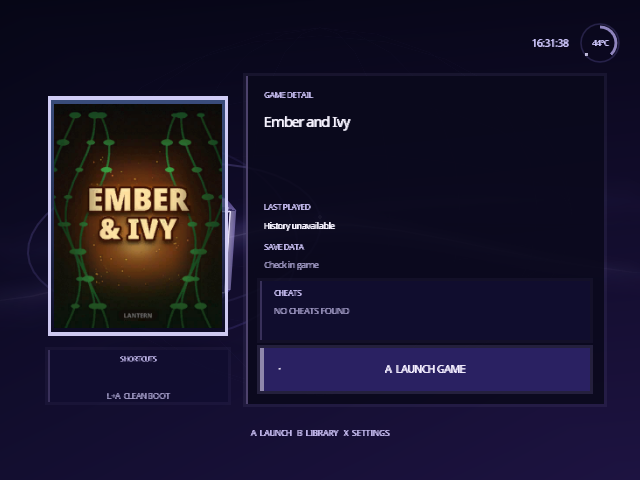
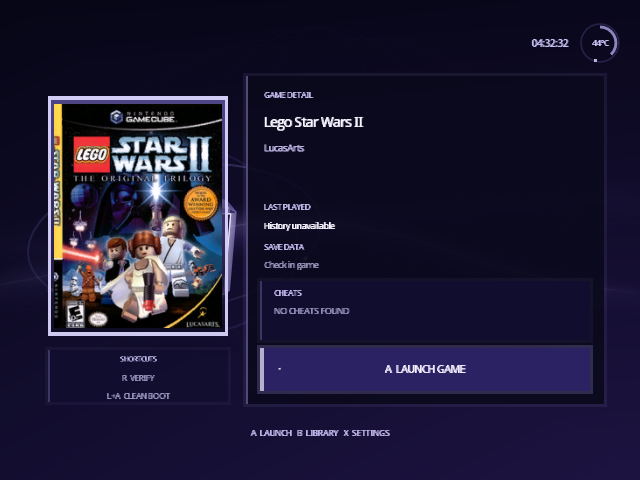
Release v1.3.3
Public-Release-Metadata: {"allow":["192.168.1.32","3.9.46.178","4.294.967.296","emukidid@gmail.com","extrems@extremscorner.org","hsn@sendmail.cz","jens.hauke@4k2.de","lasse.collin@tukaani.org","segher@kernel.crashing.org","tehpola@gmail.com"],"baseline":"","github":"spencercnorton/swiss-ui","include":[".github/CODEOWNERS",".github/FUNDING.yml",".github/ISSUE_TEMPLATE/",".github/PULL_REQUEST_TEMPLATE.md",".gitignore","CHANGELOG.md","CODE_OF_CONDUCT.md","CONTRIBUTING.md","LICENSE","Makefile","NOTICE","README.md","SECURITY.md","SUPPORT.md","buildtools/SWISS_FILE_DESCRIPTIONS.txt","buildtools/check_whitespace.sh","buildtools/dol2gci.cpp","buildtools/dol2ipl.py","cube/PowerPC.h","cube/asm.h","cube/linker-script/","cube/packer/","cube/patches/","cube/reservedarea.h","cube/reservedarea.ld","cube/swiss/Makefile","cube/swiss/include/","cube/swiss/source/","docs/screenshots/","pc/","wii/"],"pinned":{"cube/linker-script/ogc.ld":"sha256:c2e8d217d8f8edd03e1605b7749344afe3849a1fc5f4cb3d24484dd1dceb4a0f","cube/packer/source/link.ld":"sha256:9370d339794e94cddbabcb905c13ea8db535efcce31d17600350b9489434000c","cube/patches/base/base.ld":"sha256:f50568b7efb501ea58569b42de230c6113f568ca06442950471bbdee1736d1c2","cube/patches/base/common.ld":"sha256:35f27cc406dce84ff3c95bbc97a6cbc4a370eda22a27efb4f84aadc80a2f8d2d","cube/patches/base/dolphin/os.ld":"sha256:6c78148ddbc0371cfeec31fe19fa43cc5064ff9b98a5b67503e48bde73b59fe3","cube/patches/cheats/codehandler.ld":"sha256:206d204bbac3d02334ed766a5071a
[…]

diff --git a/README.md b/README.md
@@ -17,7 +17,7 @@
   <img alt="The Swiss UI Home screen: a glass cube turning between its Library, DVD, System and Source faces on a dark starfield, with the selected face named underneath." src="docs/screenshots/home.png" width="640">
 </p>
 
-Captured on a demonstration card: the game titles and cover art are fictitious.
+Captured in the Dolphin emulator. The library and game detail pictures show a real poster pack in use; box art belongs to its publishers.
 
 Swiss UI is an unofficial fork of [Swiss](https://github.com/emukidid/swiss-gc),
 the homebrew utility that boots and patches games on a Nintendo GameCube. The
@@ -40,7 +40,7 @@ comes from a pack you build yourself; without one, each game gets a generated
 card.
 
 <p align="center">
-  <img alt="The game library: a row of cover cards with the selected one raised and named below it." src="docs/screenshots/library.png" width="640">
+  <img alt="The game library: GameCube box art in a carousel, the selected cover raised with its title and publisher below it." src="docs/screenshots/library.png" width="640">
 </p>
 
 **Game details are a surface, not a dialogue.** Artwork, last played, save
@@ -85,7 +85,7 @@ changes.
 
 - [`CHANGELOG.md`](CHANGELOG.md) — what each release contains.
 - [`NOTICE`](NOTICE) — upstream provenance and the third-party components in this tree.
-- [`docs/screenshots/`](docs/screenshots) — the pictures above, captured from a demonstration card.
+- [`docs/screenshots/`](docs/screenshots) — the pictures above, captured in Dolphin.
 - Upstream [Swiss documentation](https://github.com/emukidid/swiss-gc) covers every device handler, patch and boot option; none of it changed here.
 
 ## Contributing and support

diff --git a/CHANGELOG.md b/CHANGELOG.md
@@ -3,6 +3,11 @@
 Versions follow [semantic versioning](https://semver.org/); each release is a
 tag on `main`.
 
+## v1.3.3 — screenshots
+
+- The library animation and game detail still show real GameCube games with
+  their box art from a poster pack, instead of fictitious placeholder titles.
+
 ## v1.3.2 — screenshots
 
 - The library animation and game detail still now show a poster pack in use:
